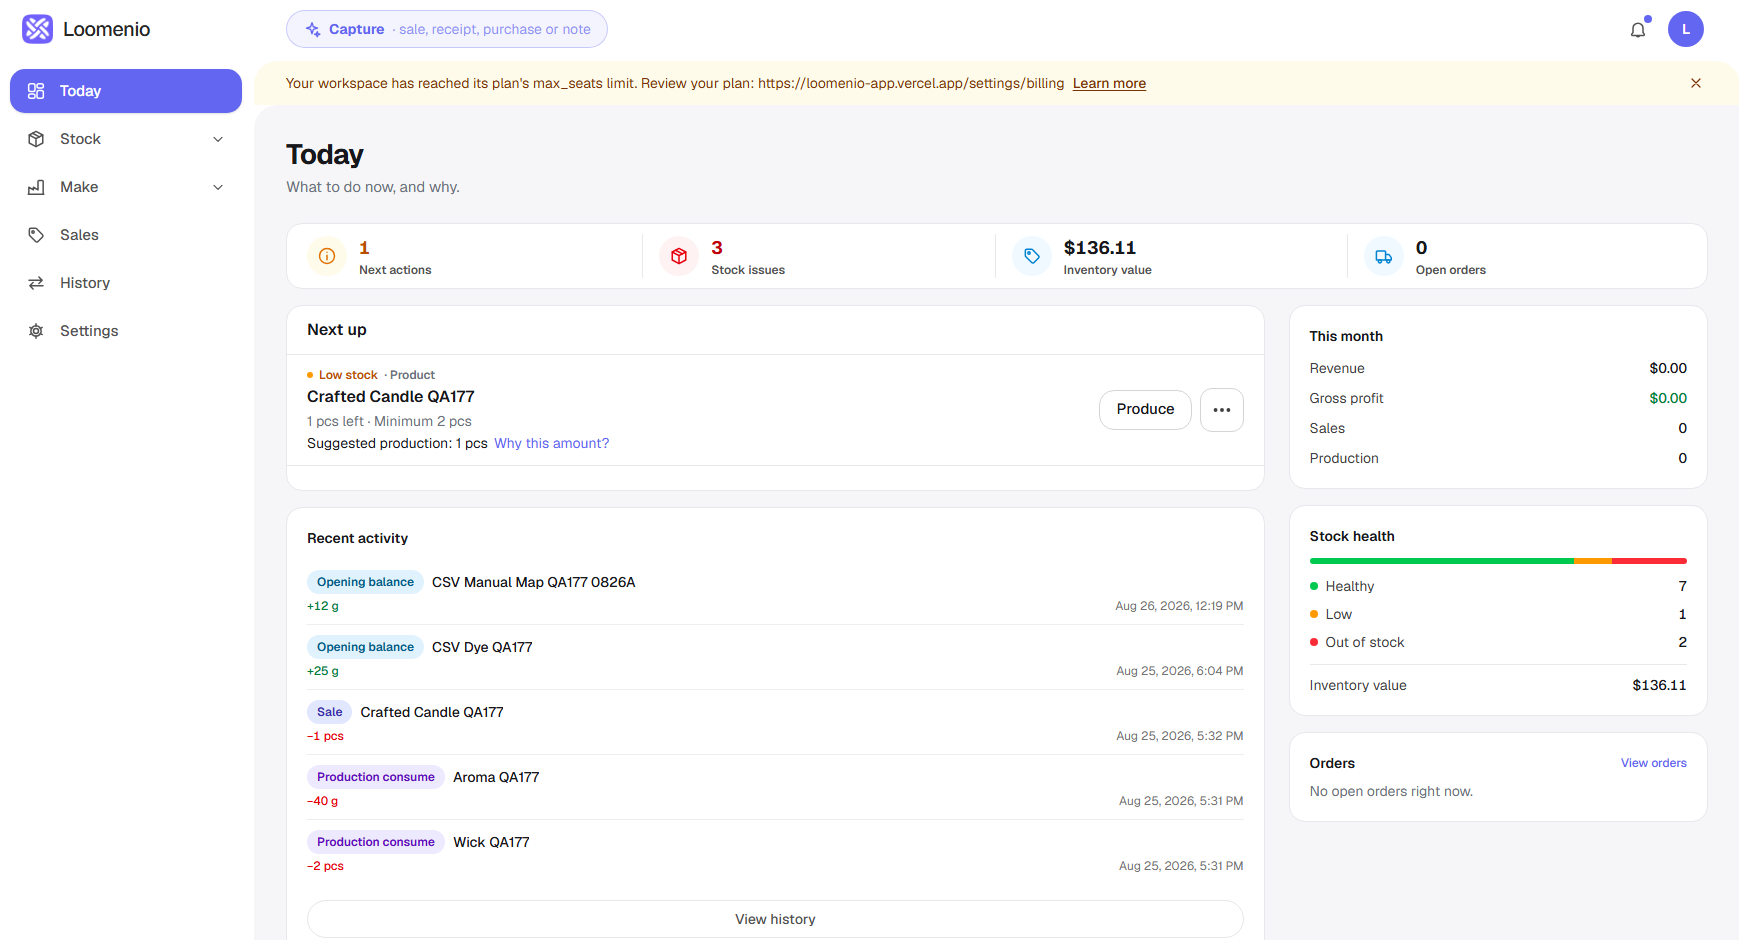
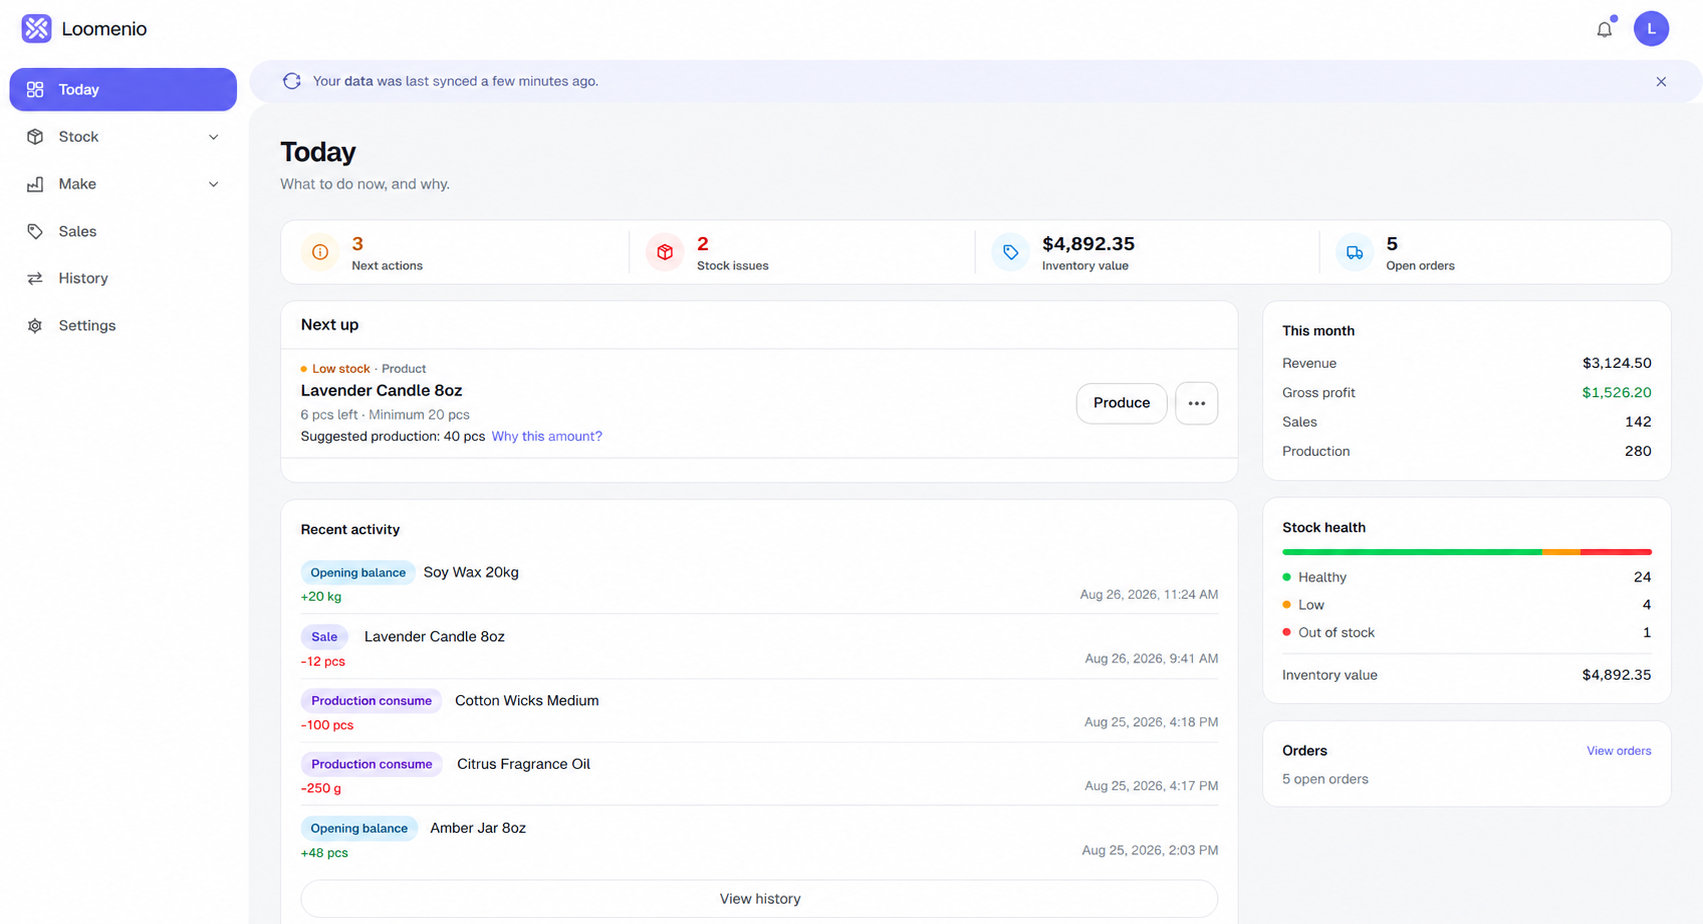
Loomenio: new clean Today screenshot as primary cover; AI Sleep review screenshot without the project title row

diff --git a/case-studies/ai-sleep-assistant.md b/case-studies/ai-sleep-assistant.md
@@ -46,7 +46,7 @@ The client later confirmed that the live app, the Bubble setup, and the Stripe f
 
 > "He built and deployed my Bubble app, set up Stripe subscriptions, and integrated my OpenAI assistant."
 
-![Client review of the project, original screenshot.](../assets/testimonials/upwork-review-01-full.png)
+![Client review of the project. Original screenshot, with the project title row cropped.](../assets/testimonials/upwork-review-01-clean.png)
 
 ## Product decisions
 
